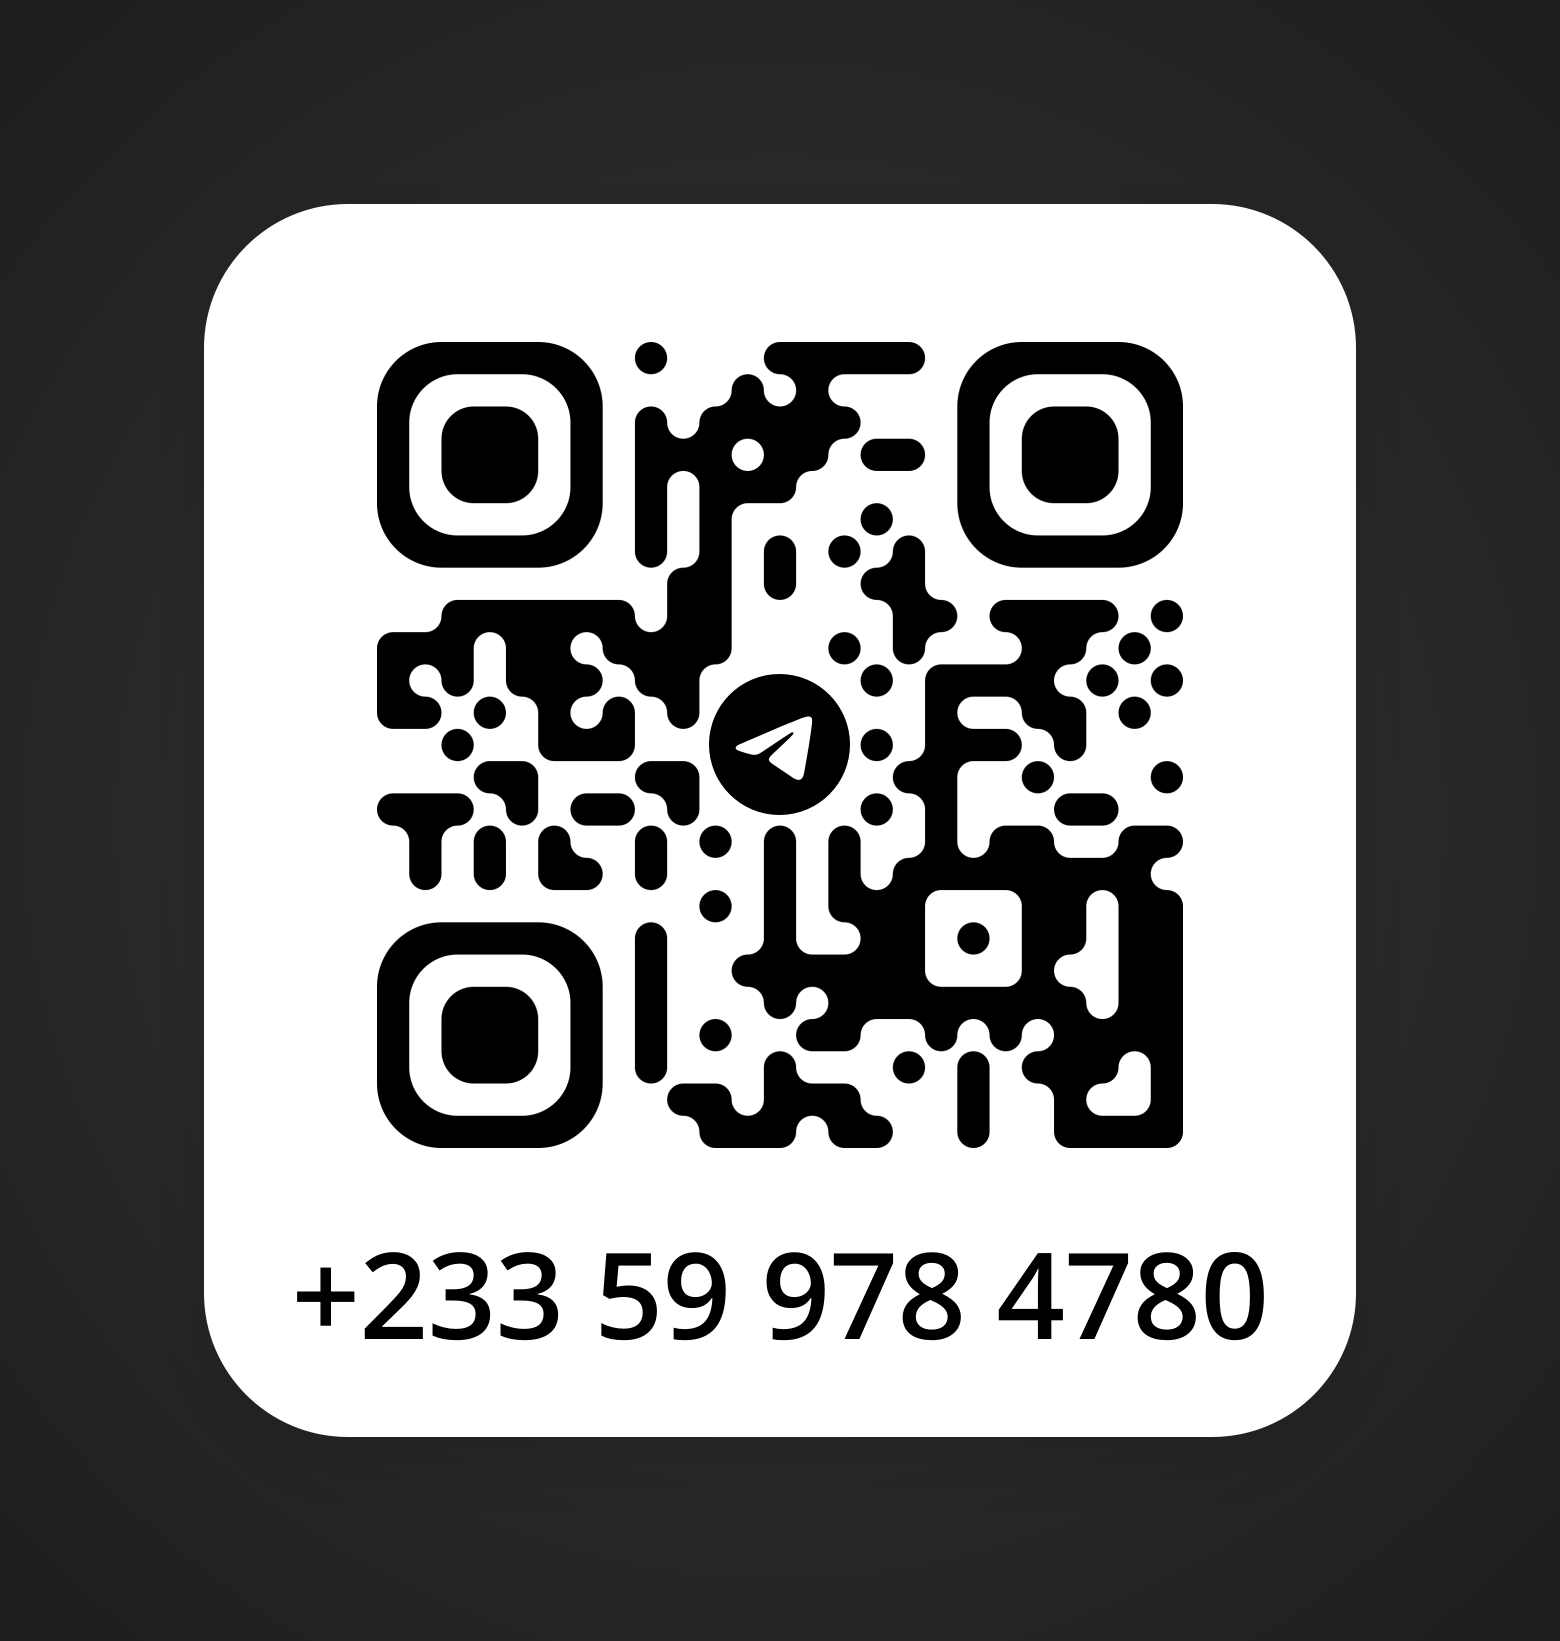
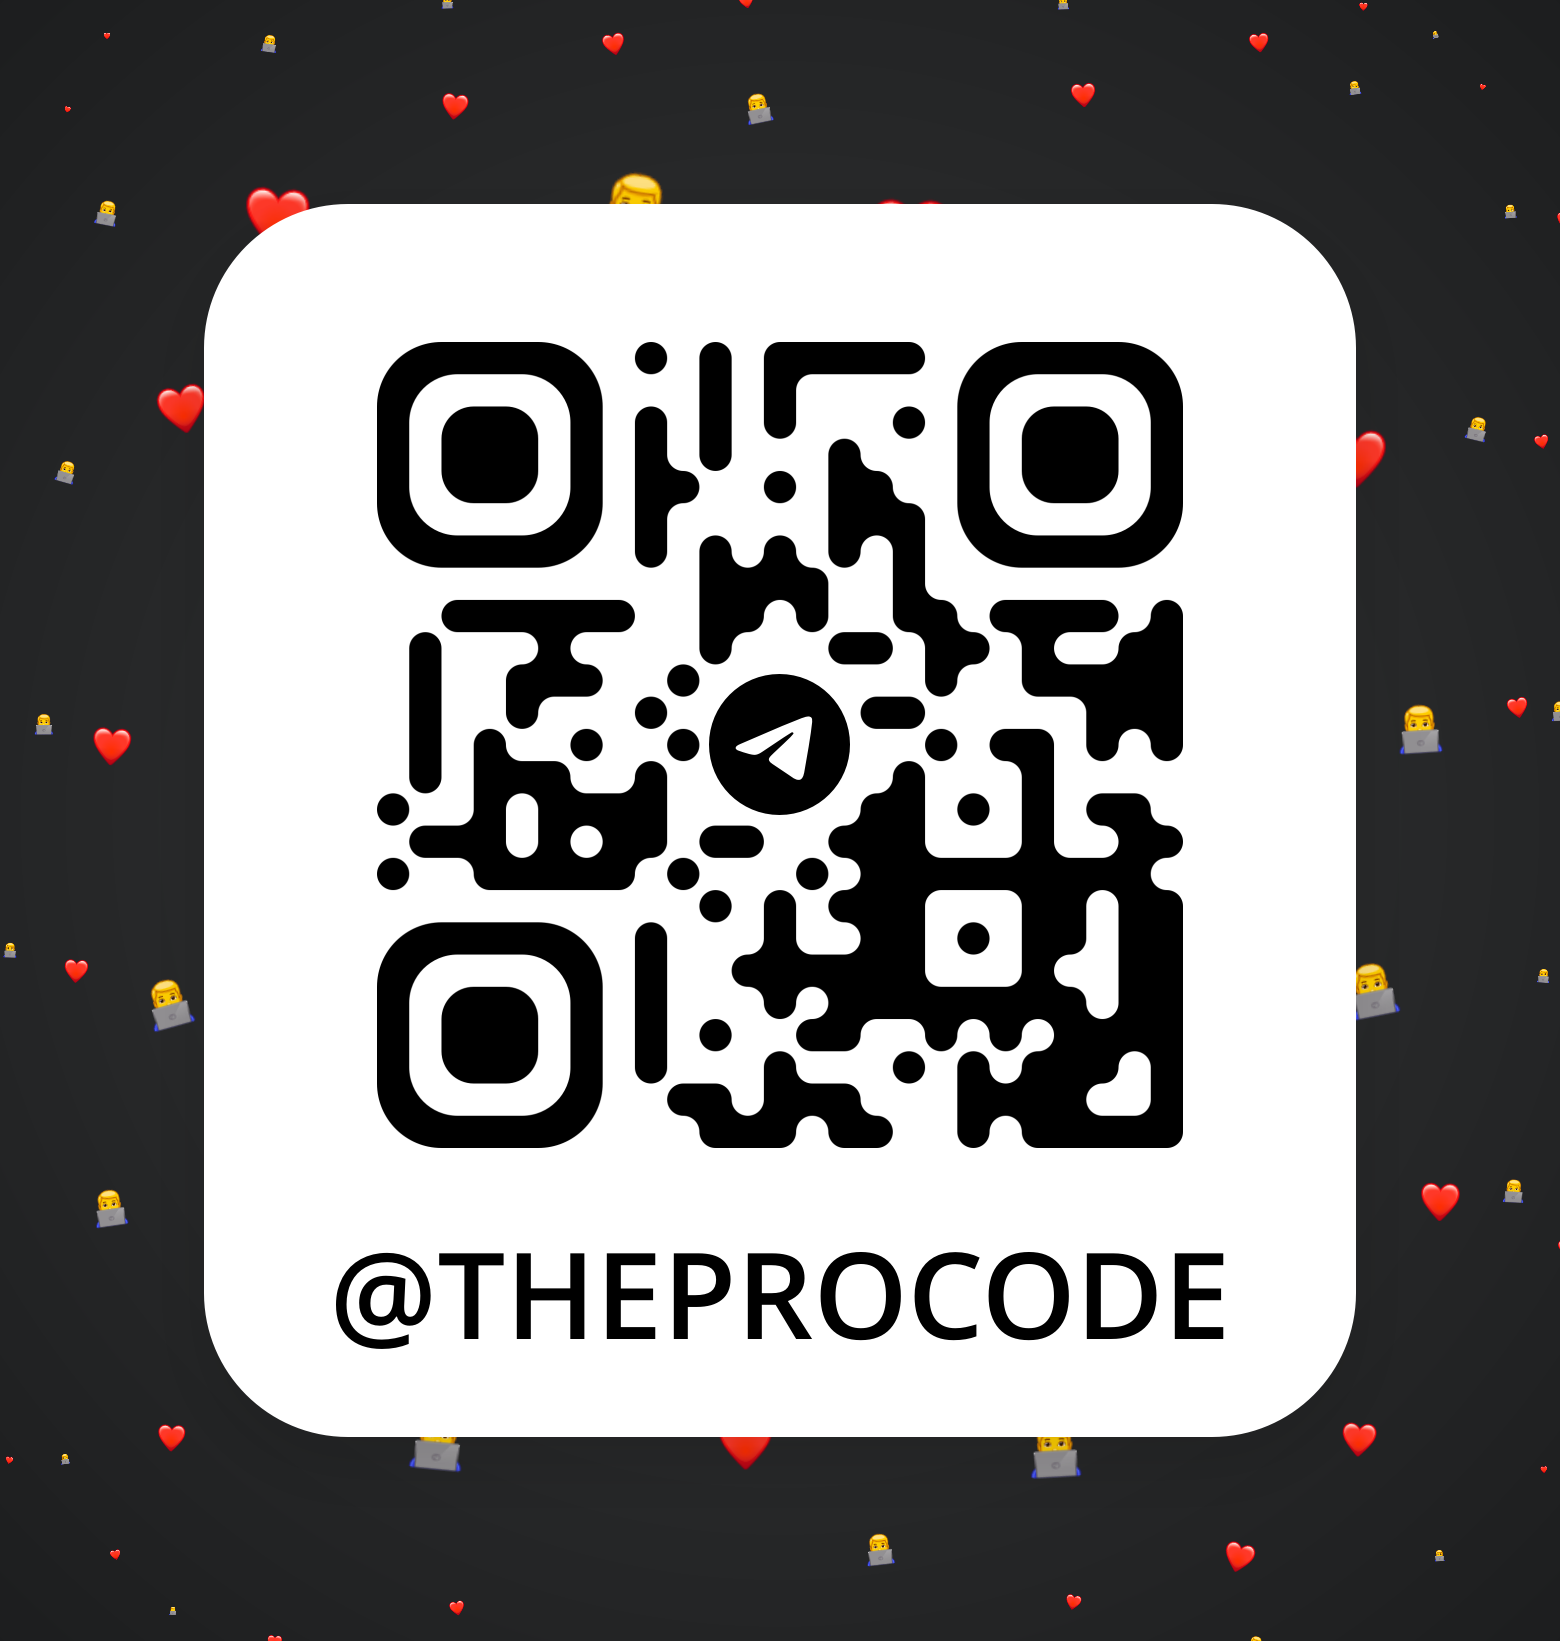
Use @theprocode for Telegram support
Telegram support now links to t.me/theprocode, with the matching QR
code on the support page.

diff --git a/src/lib/site.ts b/src/lib/site.ts
@@ -15,7 +15,7 @@ export const SUPPORT = {
   /** Support email address, e.g. "help@example.com" */
   email: "adichriz@gmail.com",
   /** Telegram username without "@" (e.g. "campuscompass_help"), or a phone number in +233... form */
-  telegram: "+233599784780",
+  telegram: "theprocode",
   /** Optional Telegram QR code image in /public, shown on the support page for scanning from a computer */
   telegramQr: "/telegram-qr.png",
   /** Usual reply window shown next to the contact options */
